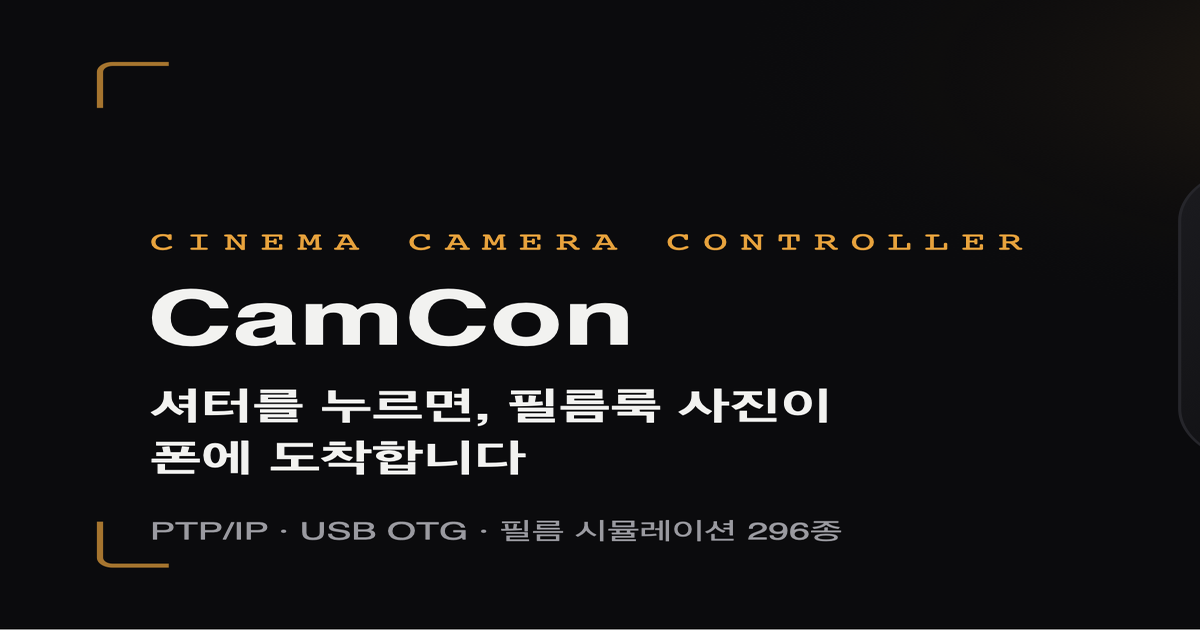
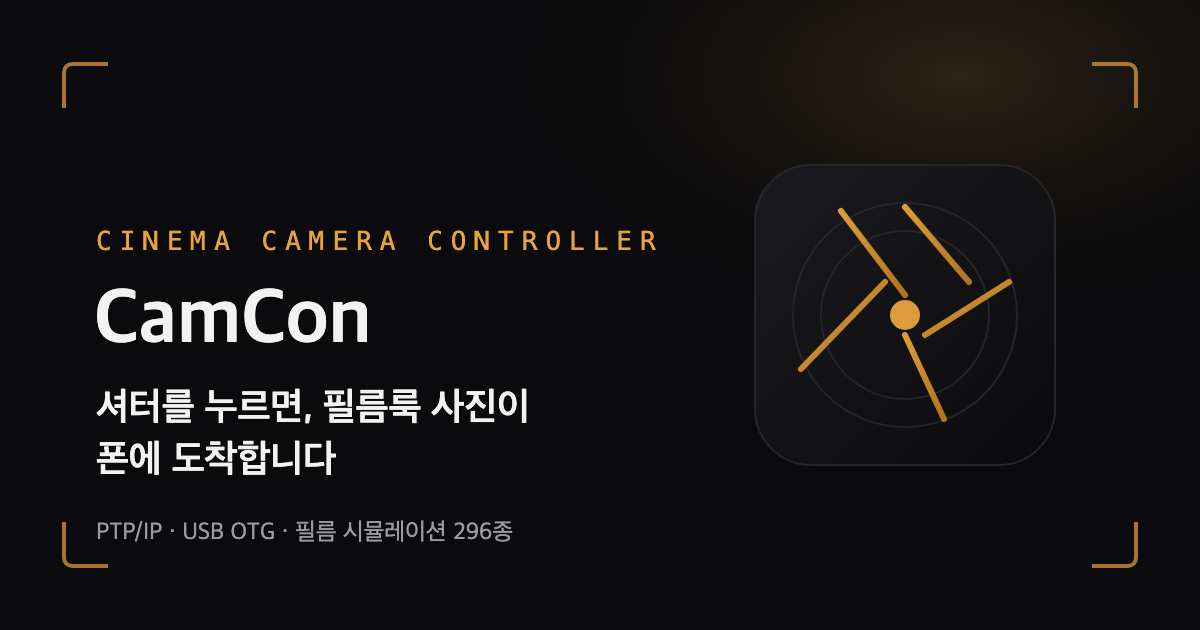
fix: OG 카드 이미지 최신 SVG로 재생성(조리개 배지 반영)+캐시버스트 v2

diff --git a/website/index.html b/website/index.html
@@ -13,7 +13,7 @@
   <meta property="og:url" content="https://camcon.inik.kr/">
   <meta property="og:title" content="CamCon — 셔터를 누르면, 필름룩 사진이 폰에 도착합니다">
   <meta property="og:description" content="카메라를 USB·Wi-Fi로 연결하고, 촬영과 동시에 필름 시뮬레이션이 입혀진 사진을 받아보세요.">
-  <meta property="og:image" content="https://camcon.inik.kr/assets/img/og-card.png">
+  <meta property="og:image" content="https://camcon.inik.kr/assets/img/og-card.png?v=2">
   <meta property="og:image:width" content="1200">
   <meta property="og:image:height" content="630">
   <meta property="og:image:type" content="image/png">
@@ -21,7 +21,7 @@
   <meta name="twitter:card" content="summary_large_image">
   <meta name="twitter:title" content="CamCon — Cinema Camera Controller">
   <meta name="twitter:description" content="카메라를 USB·Wi-Fi로 연결하고, 촬영과 동시에 필름 시뮬레이션이 입혀진 사진을 받아보세요.">
-  <meta name="twitter:image" content="https://camcon.inik.kr/assets/img/og-card.png">
+  <meta name="twitter:image" content="https://camcon.inik.kr/assets/img/og-card.png?v=2">
 
   <link rel="canonical" href="https://camcon.inik.kr/">
   <link rel="icon" type="image/svg+xml" href="favicon.svg">